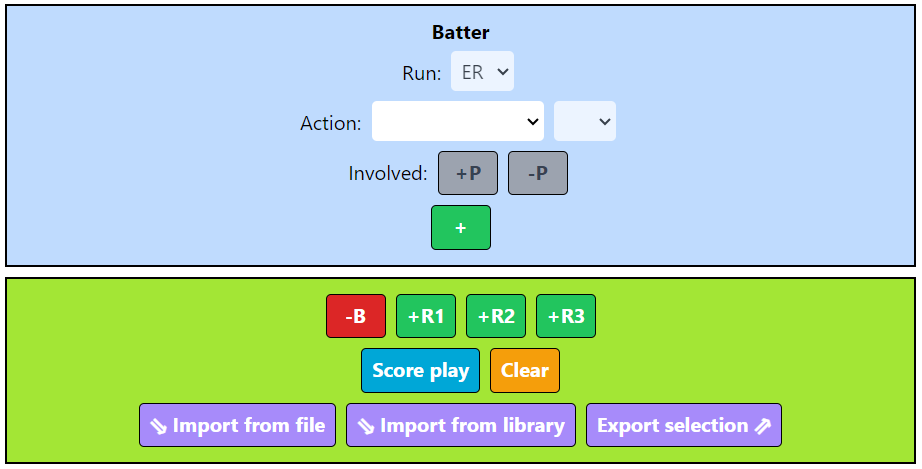
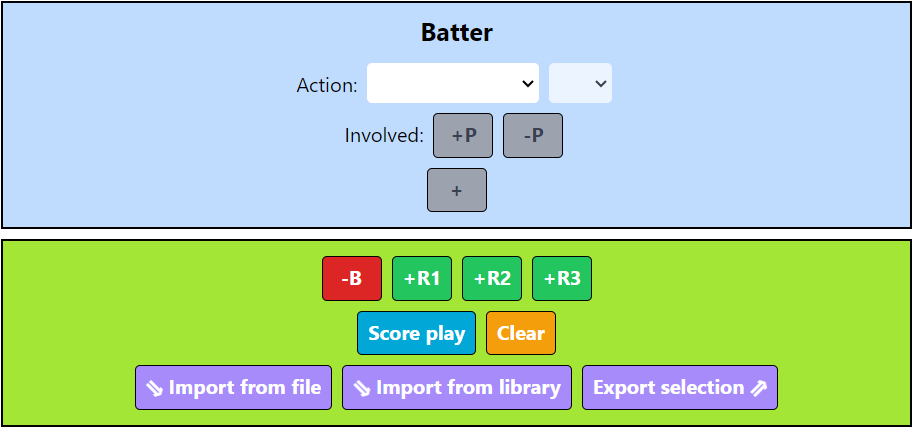
docs: update docs for v1.2

Changed region(s): [[0.0, 0.0, 1.0, 1.0]]

diff --git a/content/en/help.md b/content/en/help.md
@@ -26,21 +26,19 @@ Underneath there is basic output form consisting of empty scoresheet element and
 
 ### Entering first play
 
-Note you cannot select from **Run** combo-box by default, because it requires a play that ends up safe at home base. This option will be covered later in more advanced topics.
-
 You start by picking an option from the first **Action** combo-box containing groups of possible situations. Internally this is called a "base action":
 
 <div>
 <article-image src="03-base-action.png" alt="" :width="200" />
 </div>
 
-Based on the selection the second combo-box becomes active and being filled with concrete plays. This is called a "specific action". The options are grouped into "safe" and "out" situations:
+Based on the selection the second combo-box becomes active and being filled with concrete plays. This is called a "specific action":
 
 <div>
 <article-image src="04-specific-action.png" alt="" :width="400" />
 </div>
 
-The third element of every action is called **Involved**. This means defensive player position(s) or locations on the field (in certain cases). The availability of those UI elements depends on specific action selection. For some plays there is no additional information allowed, for some there is exactly one or exactly two options. For the rest you can select 1-4. You add new inputs with green "+P" button and remove them with red "-P" button. When it is not possible to add/remove inputs, the buttons are not enabled.
+The third element of every action is called **Involved**. This means defensive player position(s) or locations on the field (in certain cases). The availability of those UI elements depends on specific action selection. For some plays there is no additional information allowed, for some there is exactly one or exactly two options. For the rest you can select 1-4. You add new inputs with green "+P" button and remove them with red "-P" button (see later). When it is not possible to add/remove inputs, the buttons are not enabled.
 
 <div>
 <article-image src="05-involved.png" alt="" :height="40" />
@@ -84,9 +82,11 @@ Runner's input is slightly different from the batter's and there are also minor 
 
 For 1st and 2nd base. There is a "Tiebreak" checkbox. If it is checked, runner doesn't appear on base with generic red asterisk, but instead the symbol TIE is used (which is how WBSC scores tiebreaker runners).
 
-From the "Base" combo-box you pick the base that runner gains with current action. Obviously, the options are adjusted depending on which base we are currently on. If you need a runner to stay on the current base, you don't do it here, but instead you pick "No advance" from the "Action" menu.
+For 1st, 2nd and 3rd base. There is a "No DP" checkbox. If it is checked and selected action resulted into an out, it is not connected with other out(s). This can be used to point out a situation where an error (writter or extempted) breaks the natural flow of the double play.
 
-If a play resulting in a safe situation at home plate is selected, combo-box "Run" becomes active. Then you pick from "ER" _(earned run)_ / "UE" _(unearned run)_ / "TU" _(team unearned run)_ options. This feature is here mainly to show differences between each variant. There are some basic validations, but during the game it depends on a broader context of previous plays, while here we always score just one separate action. "Run" is also possible directly for the batter, but only for "Hit - Home run" plays.
+From the "Base" combo-box you pick the base that runner gains with current action. Obviously, the options are adjusted depending on which base we are currently on. If you need a runner to stay on the current base, you don't do it here, but instead you pick "No advance" from the "Action" menu. 
+
+If a play resulting in a safe situation at home plate is selected, combo-box "Run" becomes visible. Then you pick from "ER" _(earned run)_ / "UE" _(unearned run)_ / "TU" _(team unearned run)_ options. This feature is here mainly to show differences between each variant. There are some basic validations, but during the game it depends on a broader context of previous plays, while here we always score just one separate action. "Run" is also possible for the batter, but only for "Hit - Home run" plays.
 
 <div>
 <article-image src="11-type-of-run.png" alt="" :height="150" />
@@ -100,7 +100,7 @@ If needed, there can be more than one situation chained together with the initia
 <article-image src="12-plus-action.png" alt="" :height="40" />
 </div>
 
-The box with new inputs renders directly below:
+The button is only active if the currently selected play ends up safe. The box with new inputs renders directly below:
 
 <div>
 <article-image src="13-extra-input.png" alt="" :width="600" />
@@ -112,11 +112,13 @@ If you change your mind, you hide and thus disable extra inputs with red "-" but
 <article-image src="14-minus-action.png" alt="" :height="40" />
 </div>
 
-For the batter there can be up to 3 extra inputs (one situation at each base). If you decide to remove them again, you have to start from the last (only the last "-" button is enabled). For the runners, the number of possible extra inputs logically decreases as the home plate is getting closer (0-2 for 1st base, 0-1 for 2nd base and none for 3rd base, as the first action already moved that runner home). The selection of actions is naturally different for the batter (becoming batter runner) and the other runners. The other functions are the same.
+For the batter there can be up to 3 extra inputs (one situation at each base). If you decide to remove them again, you have to start from the last (only the last "-" button is enabled). If you select a play that results into an out, the rest of the extra inputs chain disappears.
+
+For the runners, the number of possible extra inputs logically decreases as the home plate is getting closer (0-2 for 1st base, 0-1 for 2nd base and none for 3rd base, as the first action already moved that runner home). The selection of actions is naturally different for the batter (becoming batter runner) and the other runners. The other functions are the same.
 
 ### Advanced - Reset form
 
-You can use the yellow "Clear" button to quickly reset inputs into initial state with simple batter's action input only and everything cleared.
+You can use the yellow "Clear" button to quickly reset inputs into initial state with simple batter's action input only and everything else cleared.
 
 <div>
 <article-image src="15-clear.png" alt="" :height="40" />

diff --git a/content/cs/help.md b/content/cs/help.md
@@ -34,21 +34,19 @@ Pod tím je základní sekce pro výstup skládající se z prázdného prvku sc
 
 ### Zadání první rozehry
 
-Všimněte si, že ve výchozím stavu nemůžete vybrat z combo-boxu **Doběh**, protože to vyžaduje situaci, která končí safe na domácí metě. Tato možnost bude popsána až později v pokročilejších tématech.
-
 Začínáte výběrem možnosti z prvního combo-boxu **Situace**, který obsahuje skupiny možných akcí. Interně se tomu říká "základní (base) akce":
 
 <div>
 <article-image src="03-base-action.png" alt="" :width="200" />
 </div>
 
-Na základě výběru se aktivuje druhý combo-box a je naplněn odpovídajícím seznamem možných variant. Tomu se říká "konkrétní (specific) akce". Možnosti jsou seskupeny do "safe" a "out" skupin:
+Na základě výběru se aktivuje druhý combo-box a je naplněn odpovídajícím seznamem možných variant. Tomu se říká "konkrétní (specific) akce":
 
 <div>
 <article-image src="04-specific-action.png" alt="" :width="400" />
 </div>
 
-Třetím prvkem každé akce je **Pozice**. To znamená pozice hráčů v obraně nebo místa na hřišti (v určitých případech). Dostupnost těchto UI prvků závisí na výběru konkrétní akce. U některých situací není povolena žádná další informace, u některých je přesně jedna nebo přesně dvě možnosti. U ostatních můžete vybrat 1-4. Nové vstupy přidáte tlačítkem zelené "+P" a odstraníte je tlačítkem červené "-P". Pokud není možné přidat/odstranit vstupy, tlačítka nejsou aktivní.
+Třetím prvkem každé akce je **Pozice**. To znamená pozice hráčů v obraně nebo místa na hřišti (v určitých případech). Dostupnost těchto UI prvků závisí na výběru konkrétní akce. U některých situací není povolena žádná další informace, u některých je přesně jedna nebo přesně dvě možnosti. U ostatních můžete vybrat 1-4. Nové vstupy přidáte tlačítkem zelené "+P" a odstraníte je tlačítkem červené "-P" (viz dále). Pokud není možné přidat/odstranit vstupy, tlačítka nejsou aktivní.
 
 <div>
 <article-image src="05-involved.png" alt="" :height="40" />
@@ -92,9 +90,11 @@ Vstup běžce je mírně odlišný od vstupu pálkaře a mezi metami jsou také 
 
 Pro 1. a 2. metu existuje zaškrtávací políčko "Tiebreak". Pokud je zaškrtnuto, běžec se na metě neobjevuje s obecnou červenou hvězdičkou, ale místo toho se používá symbol TIE (což je způsob, jak WBSC zápis zaznamenává běžce v tiebreaku).
 
+For 1., 2. a 3. metu existuje zaškrtávací políčko "No DP". Pokud je zaškrtnuto a vybraná rozehra má za následek aut, nebude propojen s dalším autem (či auty). To lze využít pro situaci, kdy v důsledku chyby (zapsané či skryté (extempted)) dojde k rozbití přirozeného flow double play hry.
+
 Z rozevírací nabídky "Meta" vybíráte metu, u které probíhá aktuální akce běžce. Samozřejmě možnosti jsou upraveny v závislosti na tom, na které metě se právě nacházíme. Pokud potřebujete, aby běžec zůstal na dosavadní metě, neděláte to zde, ale místo toho si z nabídky "Akce" vyberete "Žádný postup".
 
-Pokud je vybrána situace vedoucí k safe na domácí metě, stane se aktivním rozevírací nabídka "Doběh". Pak si vyberete z možností "ER" _(umožněný bod)_ / "UE" _(neumožněný bod)_ / "TU" _(týmově neumožněný bod)_. Tato funkce je zde hlavně k tomu, aby ukázala rozdíly mezi jednotlivými variantami. Existují některé základní validace, ale během skutečného zápasu záleží na širším kontextu předchozích rozeher, zatímco zde vždy skórujeme jen jednu samostatnou akci. "Doběh" je také možný přímo pro pálkaře, ale pouze pro akce typu "Hit – Home run".
+Pokud je vybrána situace vedoucí k safe na domácí metě, stane se viditelnou rozevírací nabídka "Doběh". Pak si vyberete z možností "ER" _(umožněný bod)_ / "UE" _(neumožněný bod)_ / "TU" _(týmově neumožněný bod)_. Tato funkce je zde hlavně k tomu, aby ukázala rozdíly mezi jednotlivými variantami. Existují některé základní validace, ale během skutečného zápasu záleží na širším kontextu předchozích rozeher, zatímco zde vždy skórujeme jen jednu samostatnou akci. "Doběh" je možný i pro pálkaře, ale pouze pro akce typu "Hit – Home run".
 
 <div>
 <article-image src="11-type-of-run.png" alt="" :height="150" />
@@ -108,7 +108,7 @@ Pokud je potřeba, může být s počáteční akcí spojena více než jedna da
 <article-image src="12-plus-action.png" alt="" :height="40" />
 </div>
 
-Panel s novými vstupy se vykreslí přímo pod ním:
+Tlačítko je aktivní pouze, pokud vybraná rozehra končí jako safe. Panel s novými vstupy se vykreslí přímo pod ním:
 
 <div>
 <article-image src="13-extra-input.png" alt="" :width="600" />
@@ -120,7 +120,9 @@ Pokud si to rozmyslíte, skryjete a tím deaktivujete extra vstupy pomocí červ
 <article-image src="14-minus-action.png" alt="" :height="40" />
 </div>
 
-Pro pálkaře mohou být extra vstupy až 3 (jedna situace na každé metě). Pokud se rozhodnete je znovu odstranit, musíte začít od posledního (je povoleno pouze poslední tlačítko "-"). Počet možných extra vstupů pro běžce logicky klesá, jak se domácí meta blíží (0-2 pro 1. metu, 0-1 pro 2. metu a žádný pro 3. metu, protože první akce již posunula tohoto běžce domů). Výběr akcí je přirozeně odlišný pro pálkaře (stávajícího se běžcem) a ostatní běžce. Ostatní funkce jsou stejné.
+Pro pálkaře mohou být extra vstupy až 3 (jedna situace na každé metě). Pokud se rozhodnete je znovu odstranit, musíte začít od posledního (je povoleno pouze poslední tlačítko "-"). Pokud vyberete rozehru, která má za následek aut, celý podstrom dalších vstupů zmizí.
+
+Počet možných extra vstupů pro běžce logicky klesá, jak se domácí meta blíží (0-2 pro 1. metu, 0-1 pro 2. metu a žádný pro 3. metu, protože první akce již posunula tohoto běžce domů). Výběr akcí je přirozeně odlišný pro pálkaře (stávajícího se běžcem) a ostatní běžce. Ostatní funkce jsou stejné.
 
 ### Pokročilé – Resetování formuláře
 
